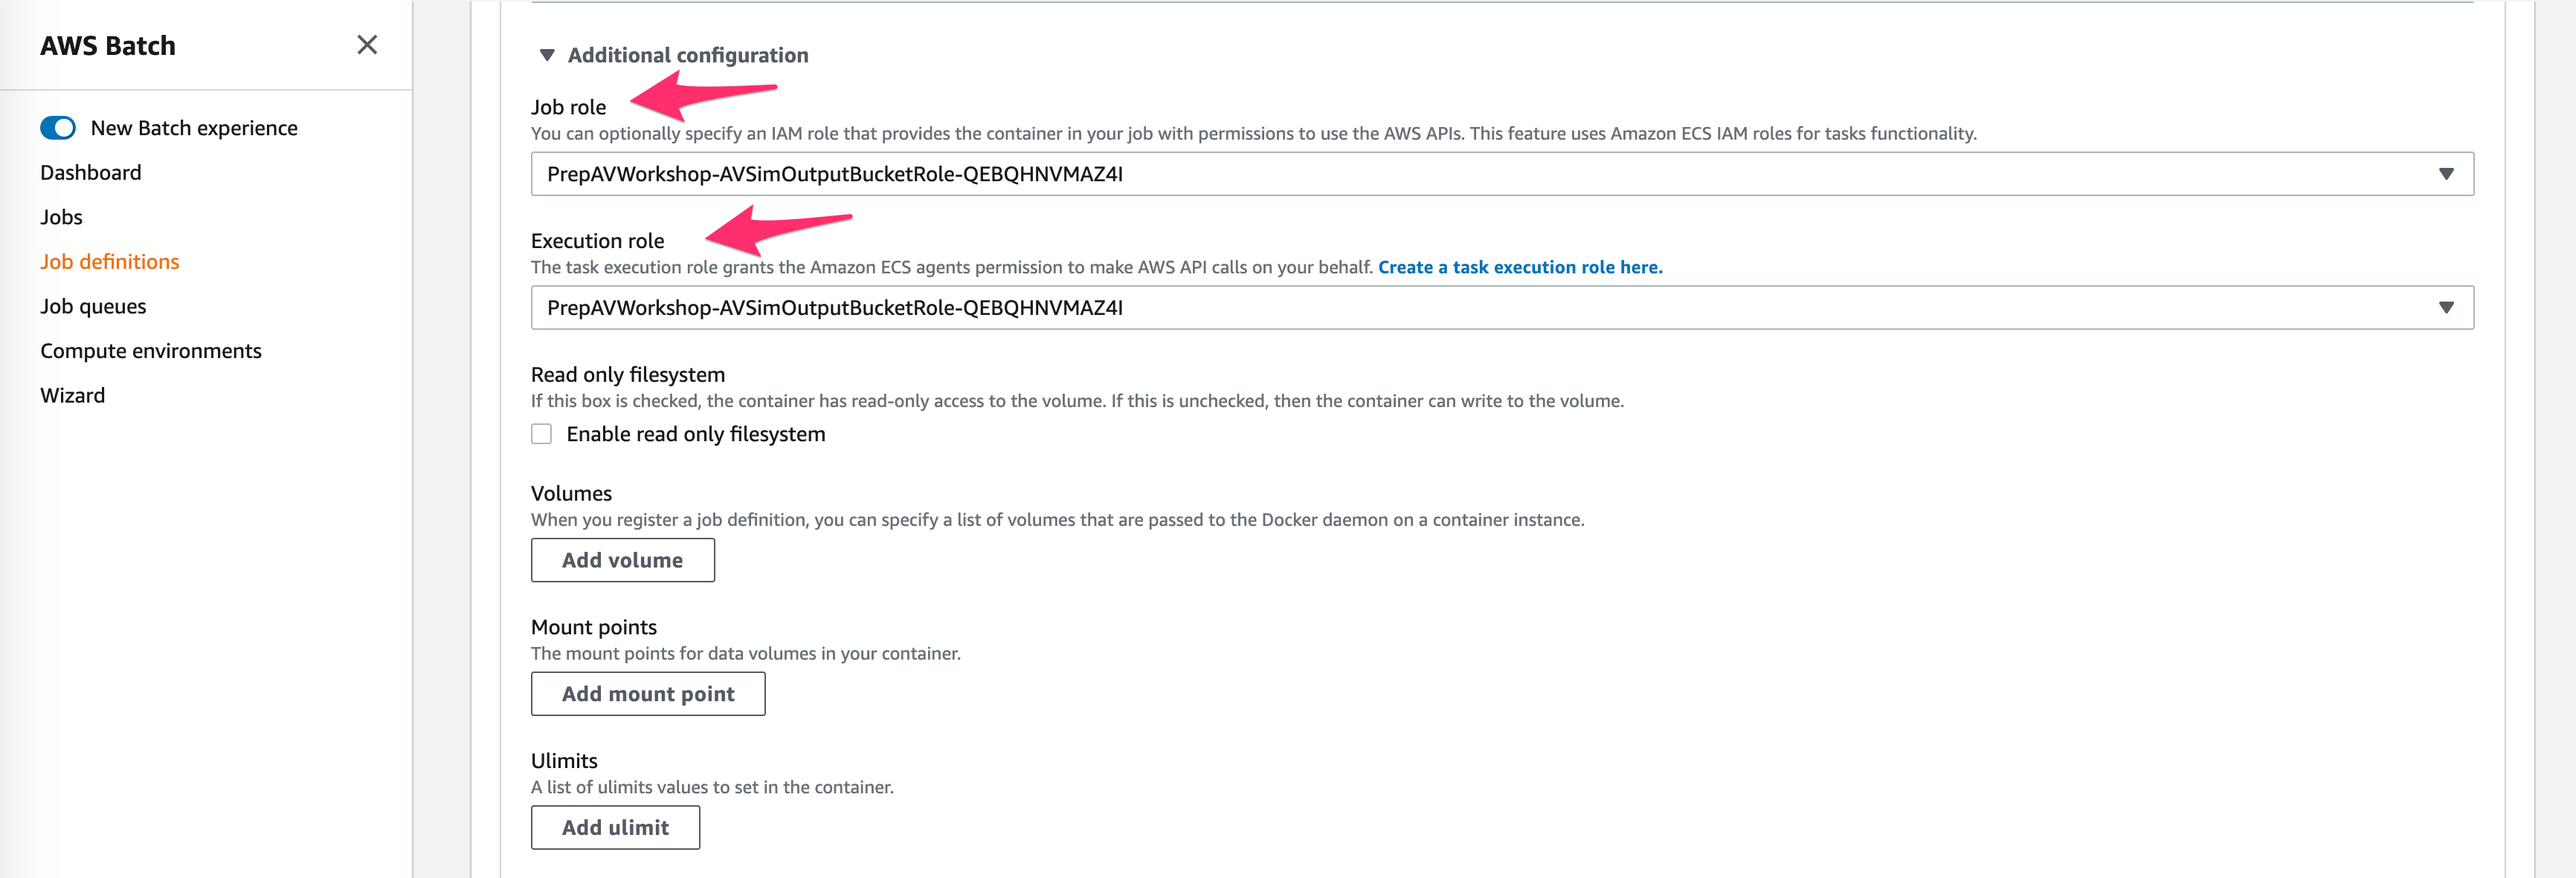
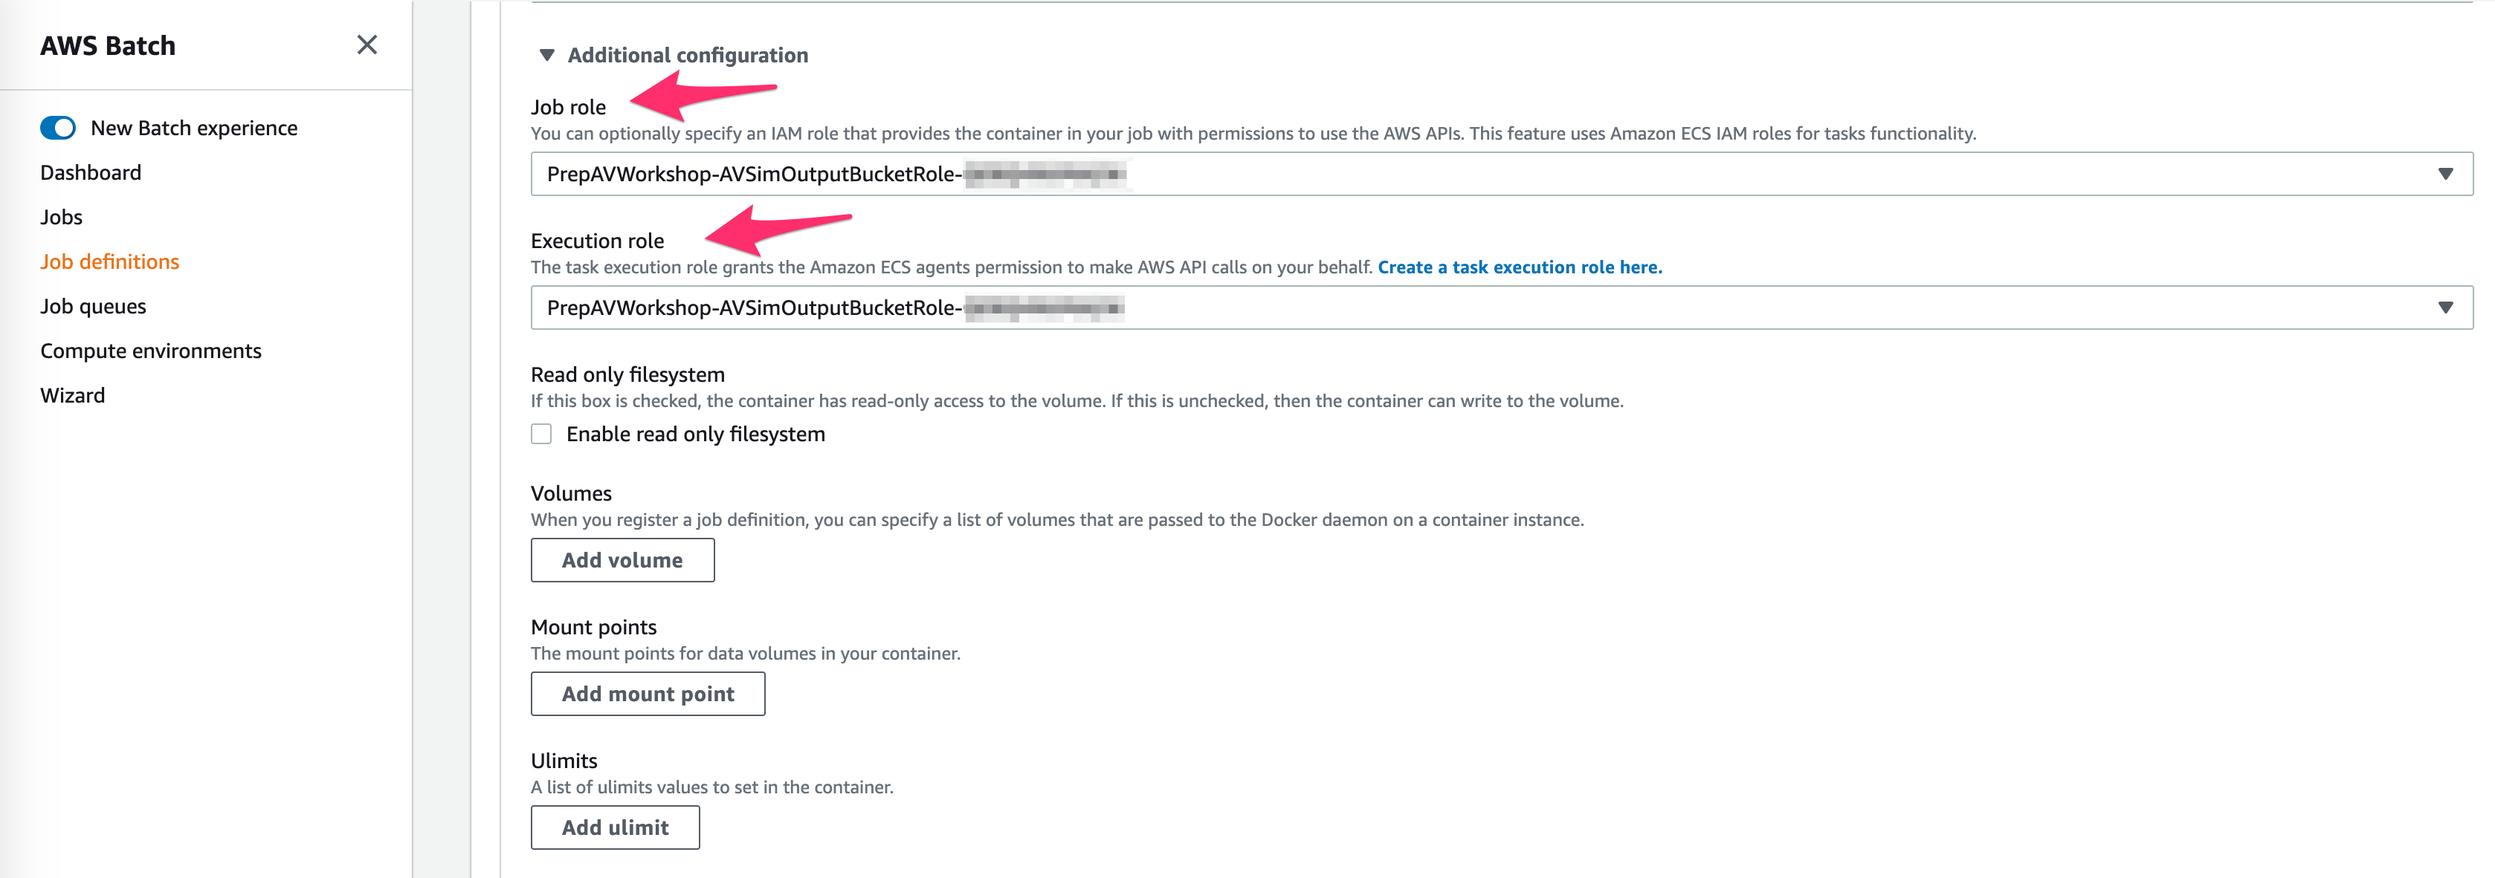
1. Change images to hide the AWS account name 2. Spelling and verbiage corrections.

diff --git a/content/05-AWS Batch/06-setup-batch-job-queue.md b/content/05-AWS Batch/06-setup-batch-job-queue.md
@@ -13,11 +13,11 @@ In this step, you set up a job queue. This job queue is where you submit your jo
 3. Choose a **Priority** (1-500). You can pick any value for this workshop. This option defines the priority of a job queue when a compute environment is shared across job queues. Job queues with a higher priority (or a higher integer value for the priority parameter) are evaluated first when associated with the same compute environment. Priority is determined in descending order, for example, a job queue with a priority value of 10 is given scheduling preference over a job queue with a priority value of 1.
 4. Expand the **Additional configuration** section and validate that **State** is selected as **Enabled**.
 ![AWS Batch](/images/aws-batch/job-queue/job_queue_config.png)
-5. For **Tags *optional***, enter the values as shown. This is optional but is considered a good practice to tag your resources.
-6. Under **Connected compute environments**, from *Select a compute environment* drop down, choose the environment you created previously.
+5. For **Tags *optional***, enter the values for your tags. This is optional but is considered a good practice to tag your resources.
+6. Under **Connected compute environments**, select a compute environment that you created previously.
 7. Choose **Create**.
 ![AWS Batch](/images/aws-batch/job-queue/job_queue_tags_compute_env.png)
-8. Once the job queue is ready, it will be visible under **Joq queues** section. Make sure *State* is **ENABLED** and *Status* is **VALID**.
+8. Once the job queue is ready, it will be visible under **Job queues** section. Make sure *State* is **ENABLED** and *Status* is **VALID**.
 ![AWS Batch](/images/aws-batch/job-queue/job_queue_display.png)
 
 Continue to set up a job definition.

diff --git a/content/05-AWS Batch/07-setup-batch-job-definition.md b/content/05-AWS Batch/07-setup-batch-job-definition.md
@@ -41,4 +41,4 @@ echo "S3 Output Bucket: $(aws cloudformation describe-stacks --stack-name PrepAV
 16. Once the Job definition is ready, it will be visible under **Job definitions** grid. Make sure *Status* is **ACTIVE**.
 ![AWS Batch](/images/aws-batch/job-def/job_def_display.png)
 
-Next, take a closer look at *compute environment*, *job queue*, and *job definition* you created.
+Next, take a closer look at **compute environment**, **job queue**, and **job definition** you created.
